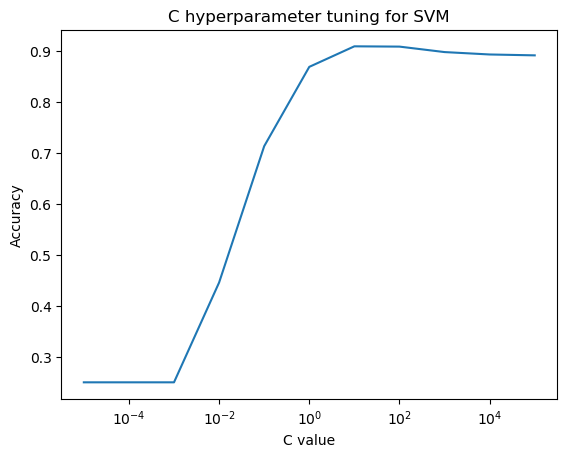
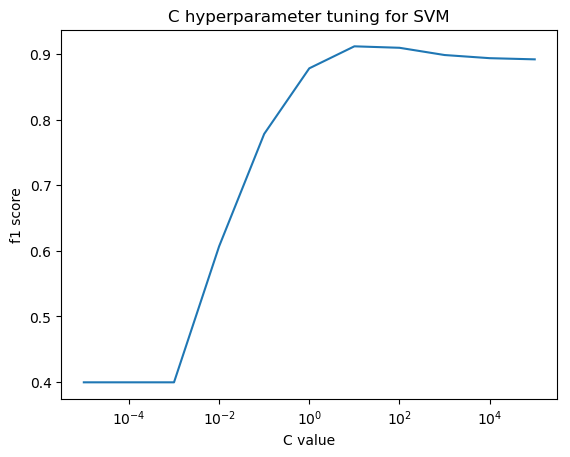
cross validation plots fixed, report finished

diff --git a/report.tex b/report.tex
@@ -178,7 +178,7 @@ In this section we discuss the candidate models which were selected for our expe
 In order to select the best model candidates, we need to perform 5-fold cross validation using training set only. The cross validation process for all models implemented in $crossValidator$ class. In all our cross-validation experiments we used the $f1_score$ as model performance measurement. While its not the same measurement we selected for each task, it's a stricter requirement than all other metrics we will describe in the following sections.
 
 \subsection{Support vector machine hyper-parameters tuning}
-Based on a post in \href{https://www.researchgate.net/post/Is_it_necessary_to_choose_kernels_in_SVM_according_to_application}{www.researchgate.net} the most important parameters for SVM are the kernel and the C parameter. Kernel determines the shape of separating hyper-plane and C parameter responsible for its complexity. A larger C makes the model more complex and lowers its bias, hence increasing chance of over-fitting. A low C gives a model with low variance and high bias. As we could not achieve convergence with linear kernel, we will use SVM with RBF kernel. To select the right value for the C hyper parameter we used the k-fold cross validation technique. First we performed cross-validation of a big range of C values with exponential steps and plotted it. Then we repeated the process with a smaller range and smaller steps for fine tuning. As we can see from the plots, the best accuracy was achieved with $C=20$ after which we can't see any improvement, thus this value with be selected for SVM model.
+The most important parameters for SVM are the kernel and the C parameter. Kernel determines the shape of separating hyper-plane and C parameter responsible for its complexity. A larger C makes the model more complex, lowers its bias and increase over-fitting. A low C gives a model with low variance and high bias. As we could not achieve convergence with linear kernel, we used RBF. We performed coarse and fine tuning of C parameter by cross-validation. As we can see from the plots, the best accuracy was achieved with $C=20$ after which we can't see any improvement.
 
 \begin{figure}[h]
 \centering
@@ -198,7 +198,7 @@ Based on a post in \href{https://www.researchgate.net/post/Is_it_necessary_to_ch
 \label{fig:test}
 \end{figure}
 
-
+\newpage
 \subsection{K nearest neighbours}
 While using KNN, under some circumstances, it is better to weight the neighbors proportionally to the inverse of the distance from the query point. As we would like to experiment with both options, we will create two KNN classifiers with two different distance functions and test their performance. To select the right value for k hyper parameter we used the k-fold cross validation technique for both knn models. The optimal accuracy is $k=3$. Clearly, the KNN with weighted distances performed better for all values of k.
 \begin{figure}[h]
@@ -244,13 +244,13 @@ We have found other parameters less important (and less intuitive), thus for the
 \subsection{Multi-layer perceptron}
 Multi-layer Perceptron classifier. This model optimizes the log-loss function using LBFGS or stochastic gradient descent. In this section we discuss the most important parameters of MLP and the values we have chosen. Our decisions were mostly based on the post in \href{https://stats.stackexchange.com/questions/181/how-to-choose-the-number-of-hidden-layers-and-nodes-in-a-feedforward-neural-netw}{stats.stackexchange.com}.
 \begin{enumerate}
-	\item \textbf{Number of hidden layers -} There is a consensus that one hidden layer is sufficient for the large majority of problems. We decided to test three options in the cross-validation process: 1, 2 and 3 hidden layers.
-	\item \textbf{Hidden layer size -} There is rule of thumb for supervised learning problems. The upper bound on the number of hidden neurons that will not result in over-fitting is:
+	\item \textbf{Number of hidden layers -} We decided to test three options in the cross-validation process: 1, 2 and 3 hidden layers, while 3 hidden layers performed best.
+	\item \textbf{Hidden layer size -} There is rule of thumb for upper bound on the number of hidden neurons that will not result in over-fitting is:
 \begin{gather*}
 N_h = \dfrac{N_s}{\alpha * (N_i + N_o)}
 \end{gather*}
-when $N_o$ is number of output neurons, $N_i$ is number of input neurons, $N_s$ number of training samples and $\alpha$ is an arbitrary factor between 2 and 10. In our case, for $\alpha = 10$ the upper bound is 166 neurons in the hidden layer. Thus, during cross validation we will test numbers up to this threshold.
-	\item \textbf{Activation function -} we will test two options: ReLU and Tanh.
+when $N_o$ is number of output neurons, $N_i$ is number of input neurons, $N_s$ number of training samples and $\alpha$ is an arbitrary factor between 2 and 10. In our case, for $\alpha = 10$ the upper bound is 166 neurons in the hidden layer. Finally, layers of size 95, performed sufficiently. 
+	\item \textbf{Activation function -} we have tested two options: ReLU and Tanh, while Tanh gave the best results. 
 \end{enumerate}
 
 \begin{figure}[h]
@@ -312,7 +312,7 @@ To visualize the prediction results on validation set we will use histogram of t
 
 
 \subsection{Voters transportation}
-To visualize the prediction results on validation set we will use bar charts. Each color represents a set of one type, and the bar height represents the size of the set. The grey color represents "forgotten" voters, i.e. the voters who are willing to vote for a given party, but have not been provided transportation. The red color is a sets of votes who are not voting for the party but still got a free ride. The green bar represents the voters which will vote and actually get transportation. The grey and the red bars' heights effect negatively on the score, while the green bar's height effects it positively. As we can see, Random Forest has a very low performance score, which means according to its probability predictions the parties will not provide transportation to their potential voters or will give a free ride to people who don't want to vote for them. On the other hand, MLP was much more accurate with it's probability predictions and provided each party a relatively large list of true potential voters. For visualization, a person was added to the party's list only if he will vote to this party with a probability higher than $0.5$. Our implementation provides the functionality the set the probability threshold which will maybe change the list of predicted votes ?????????????????????????????????????????????????????????, but not change the model, as it's been selected according to f1 score. 
+To visualize the prediction results on validation set we will use bar charts. Each color represents a set of one type, and the bar height represents the size of the set. The grey color represents "forgotten" voters, i.e. the voters who are willing to vote for a given party, but have not been provided transportation. The red color is a sets of votes who are not voting for the party but still got a free ride. The green bar represents the voters which will vote and actually get transportation. The grey and the red bars' heights effect negatively on the score, while the green bar's height effects it positively. As we can see, Random Forest has a very low performance score, which means according to its probability predictions the parties will not provide transportation to their potential voters or will give a free ride to people who don't want to vote for them. On the other hand, MLP was much more accurate with it's probability predictions and provided each party a relatively large list of true potential voters. For visualization, a person was added to the party's list only if he will vote to this party with a probability higher than $0.5$. Our implementation provides the functionality to set the probability threshold which will maybe change the list of predicted votes, but will not change the best model for this task, as it's been selected according to f1 score. 
 
 \begin{figure}[h]
 \centering
@@ -395,6 +395,7 @@ As we can see, in both cases we achieved the same results as the same model was 
 \item In our case the same model was selected for all three tasks, which is not necessarily always true. If there are different models which are best for different task, we are giving up on performance while selecting only one model for all tasks.
 \end{enumerate}
 
+\newpage
 \section{Feature manipulation - Bonus Assignment}
 In this section we look for features which can be manipulated to cause another party to win. To complete this task we've created a class $featureManipulator$ that automatically finds such features. First, we provide the class the best model for winner party prediction. Them, in iterative manner, Feature Manipulator decreases or increases one column of the validation or test data one by one, by a given constant $C$. In each iteration we start with relatively small values of $C$ and increase them gradually, until the model predicts another party as a winner. To visualize it we plot the histograms of original predictions, new predictions on altered data and true labels.   
 
@@ -419,10 +420,9 @@ To summarize the results:
 \item If \textit{Avg monthly expense on pets or plants} grows by 11.3 the Yellows will win
 
 \item If \textit{Yearly Expenses K} grows by 2.9 the Khakis will win
-
 \end{enumerate}
 
-\newpage
+
 \section{Widrow-Hoff}
 In this section we implement Adaline algorithm. First we implemented iterative Adaline which worked properly but was extremely slow. Thus the best option is an analytic solution which we implemented as well. Then we implemented a 1-vs-all technique in $Adaline$ class for multiclass classification. i.e. for the Iris dataset we trained automatically 3 Adaline binary classifiers, and 10 classifiers for Digits dataset.
 \subsection{Results on Iris and Digits datasets}
